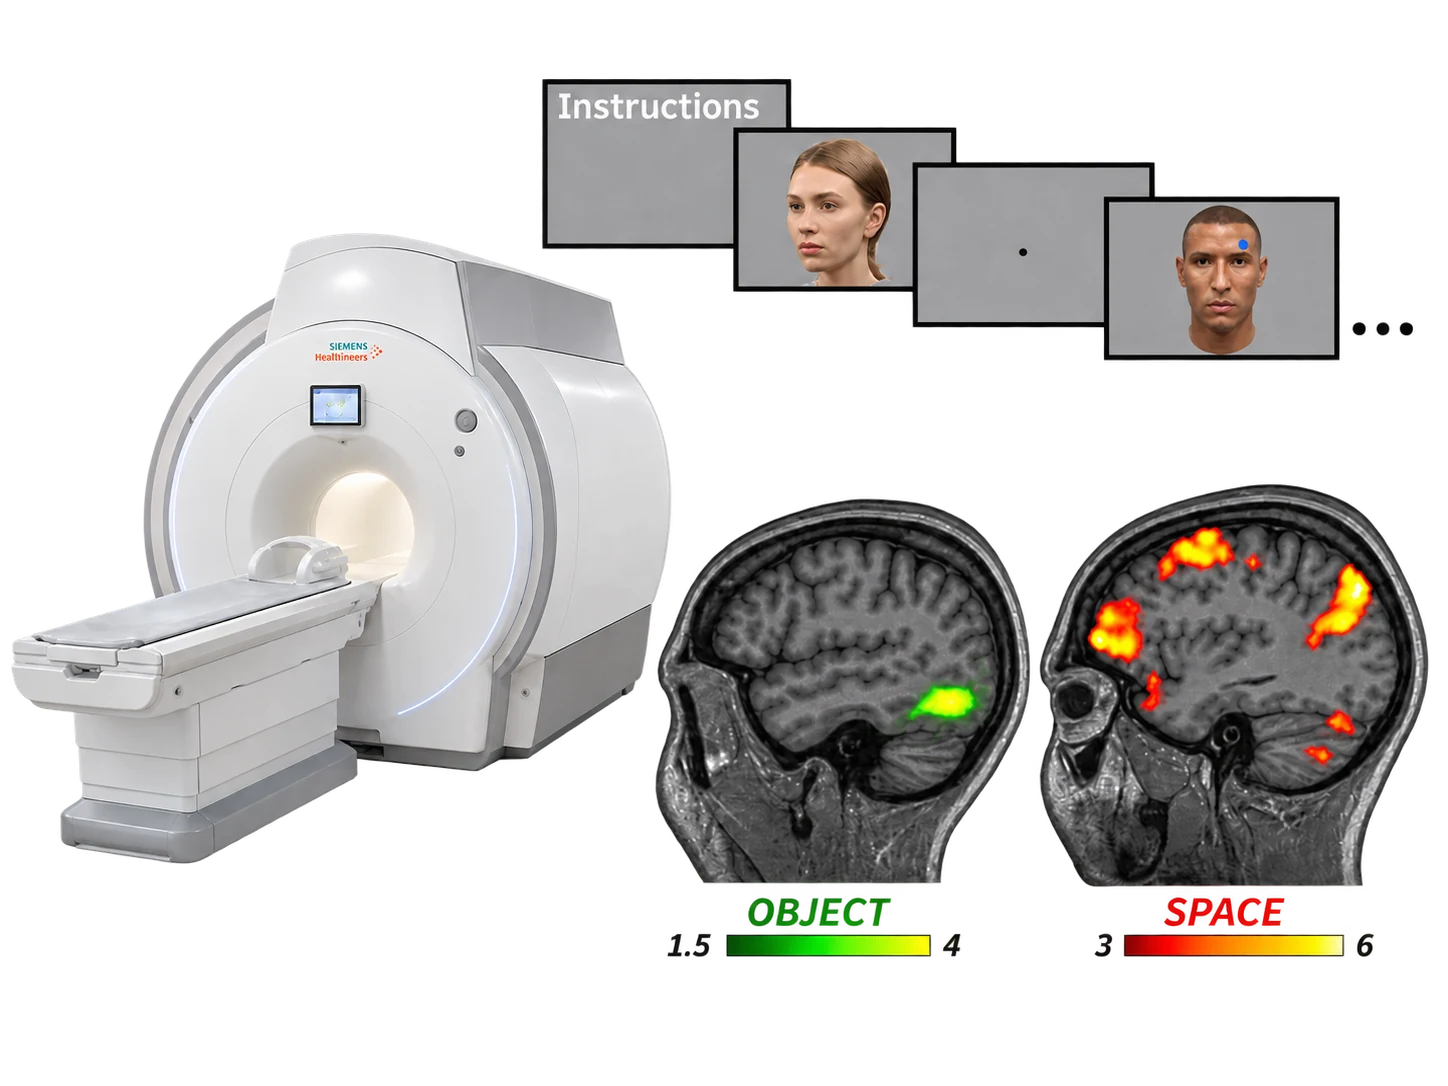
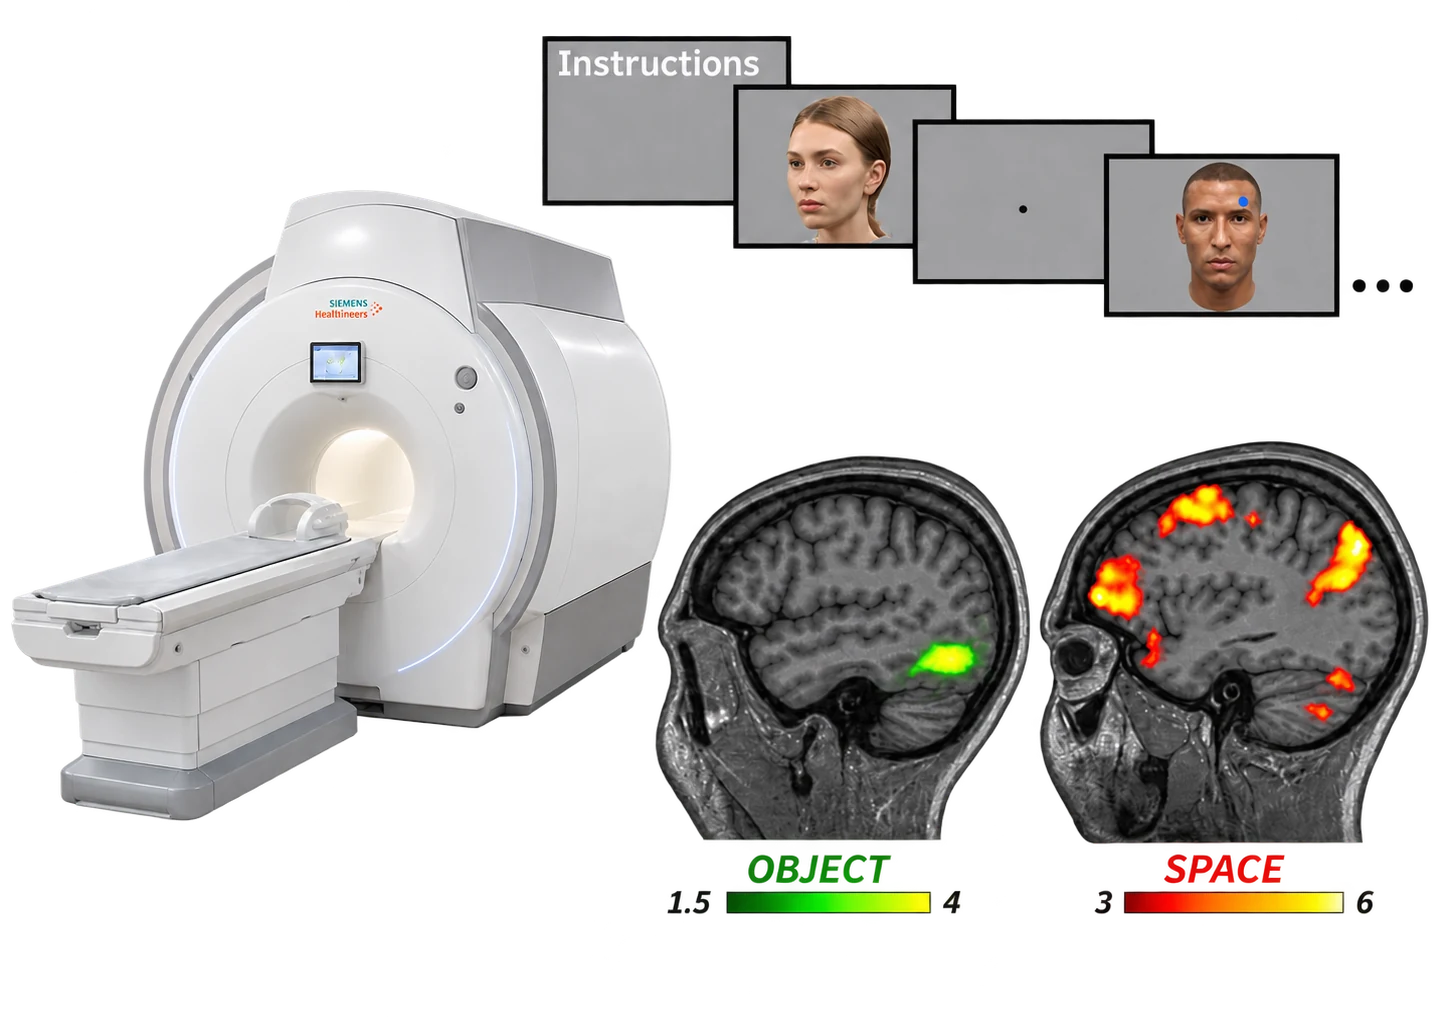
design: bold grotesque type, frameless larger hero figure, all-white sections

diff --git a/src/styles/global.css b/src/styles/global.css
@@ -20,9 +20,9 @@ img { height: auto; }
 
 h1, h2, h3 {
   font-family: var(--font-display);
-  font-weight: 600;
-  line-height: 1.14;
-  letter-spacing: -0.018em;
+  font-weight: 800;
+  line-height: 1.08;
+  letter-spacing: -0.022em;
   text-wrap: balance;
 }
 
@@ -32,17 +32,15 @@ p { text-wrap: pretty; }
 :focus-visible { outline: 3px solid var(--brand-mid); outline-offset: 3px; border-radius: 2px; }
 
 .wrap { max-width: var(--max-width); margin-inline: auto; padding-inline: var(--gutter); }
-.section { padding-block: var(--section-y); }
-.section--tint { background: var(--paper-tint); }
-.section--brand { background: linear-gradient(160deg, var(--brand-tint) 0%, var(--brand-soft) 100%); }
+.section { padding-block: var(--section-y); background: var(--paper); }
 
 .section-title { font-size: var(--text-2xl); margin-bottom: 1rem; }
 .eyebrow {
   font-family: var(--font-body);
   font-size: var(--text-sm);
-  font-weight: 600;
+  font-weight: 700;
   text-transform: uppercase;
-  letter-spacing: 0.12em;
+  letter-spacing: 0.14em;
   color: var(--brand-mid);
   margin-bottom: 0.85rem;
 }
@@ -52,16 +50,16 @@ p { text-wrap: pretty; }
   display: inline-flex;
   align-items: center;
   gap: 0.55rem;
-  padding: 0.85rem 1.6rem;
+  padding: 0.95rem 1.9rem;
   font-family: var(--font-body);
-  font-size: var(--text-sm);
-  font-weight: 600;
+  font-size: var(--text-base);
+  font-weight: 700;
   letter-spacing: 0.01em;
   text-decoration: none;
-  border: 1px solid transparent;
+  border: 2px solid transparent;
   border-radius: 999px;
   cursor: pointer;
-  transition: transform var(--transition), box-shadow var(--transition), background var(--transition);
+  transition: transform var(--transition), box-shadow var(--transition), background var(--transition), color var(--transition);
 }
 .btn--primary { background: var(--brand-deep); color: var(--on-dark); }
 .btn--primary:hover { background: var(--brand-deeper); transform: translateY(-2px); box-shadow: var(--shadow-lift); }

diff --git a/src/styles/tokens.css b/src/styles/tokens.css
@@ -3,32 +3,31 @@
   --brand: #d4b1fa;
   --brand-soft: #efe3fd;
   --brand-tint: #f8f3fe;
-  --brand-mid: #9a6fd4;
-  --brand-deep: #4a2d78;
+  --brand-mid: #8f5fd0;
+  --brand-deep: #472a77;
   --brand-deeper: #2e1a4e;
 
   --ink: #17131c;
-  --ink-soft: #524c5c;
+  --ink-soft: #4f4959;
   --ink-faint: #837c8f;
   --paper: #ffffff;
-  --paper-tint: #f8f6fb;
-  --rule: #e7e2ef;
+  --rule: #eae6f0;
   --on-dark: #ffffff;
 
-  --font-display: 'Georgia', 'Iowan Old Style', 'Times New Roman', serif;
-  --font-body: -apple-system, BlinkMacSystemFont, 'Segoe UI', Roboto, Helvetica, Arial, sans-serif;
+  --font-display: 'Bricolage Grotesque Variable', 'Helvetica Neue', Arial, sans-serif;
+  --font-body: 'Instrument Sans Variable', 'Helvetica Neue', Arial, sans-serif;
 
   --text-sm: clamp(0.875rem, 0.85rem + 0.1vw, 0.9375rem);
   --text-base: clamp(1rem, 0.96rem + 0.2vw, 1.0625rem);
   --text-lg: clamp(1.125rem, 1.05rem + 0.35vw, 1.3125rem);
-  --text-xl: clamp(1.5rem, 1.28rem + 0.95vw, 2.125rem);
-  --text-2xl: clamp(1.875rem, 1.5rem + 1.6vw, 2.75rem);
-  --text-hero: clamp(1.875rem, 1.35rem + 2.4vw, 3.25rem);
+  --text-xl: clamp(1.6rem, 1.3rem + 1.2vw, 2.4rem);
+  --text-2xl: clamp(2rem, 1.55rem + 1.9vw, 3rem);
+  --text-hero: clamp(2.25rem, 1.4rem + 3.4vw, 4.1rem);
 
   --gutter: clamp(1.25rem, 4vw, 3rem);
-  --section-y: clamp(3.5rem, 8vw, 7rem);
-  --max-width: 1180px;
-  --measure: 64ch;
+  --section-y: clamp(3.25rem, 7vw, 6rem);
+  --max-width: 1240px;
+  --measure: 66ch;
 
   --radius: 10px;
   --radius-lg: 18px;

diff --git a/scripts/prepare-assets.py b/scripts/prepare-assets.py
@@ -20,6 +20,10 @@ def convert(src_name, stem, max_w, alpha):
         raise SystemExit(f"missing source image: {src}")
     im = Image.open(src)
     im = im.convert("RGBA" if alpha else "RGB")
+    if alpha:
+        bbox = im.getchannel("A").getbbox()
+        if bbox:
+            im = im.crop(bbox)  # trim transparent padding
     if im.width > max_w:
         h = round(im.height * max_w / im.width)
         im = im.resize((max_w, h), Image.LANCZOS)
